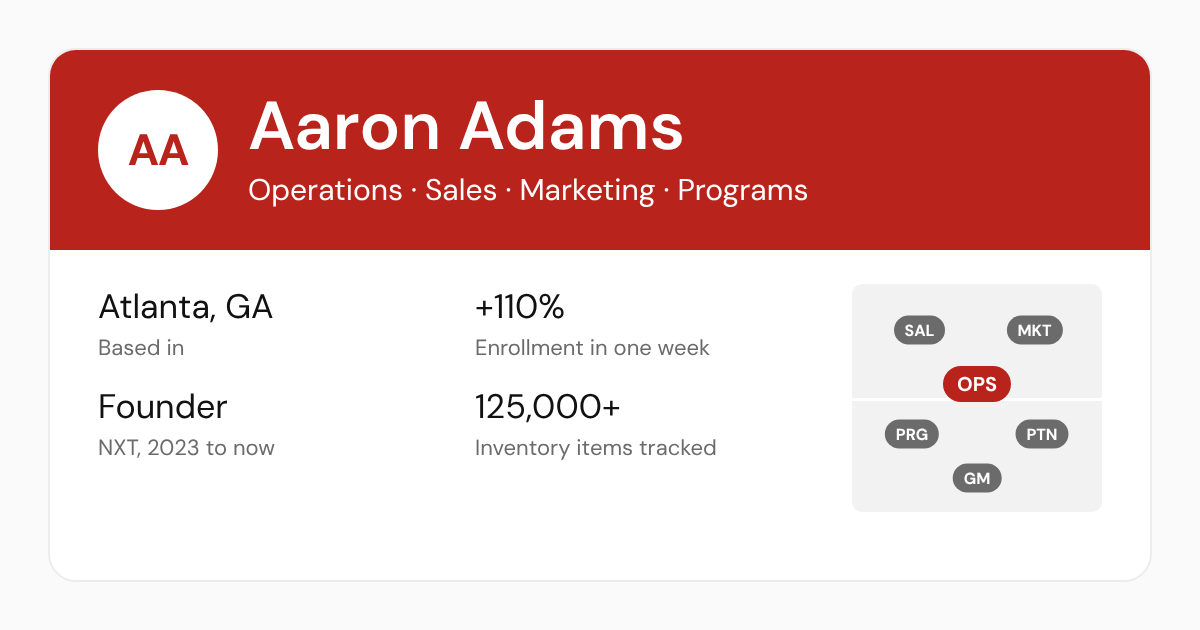
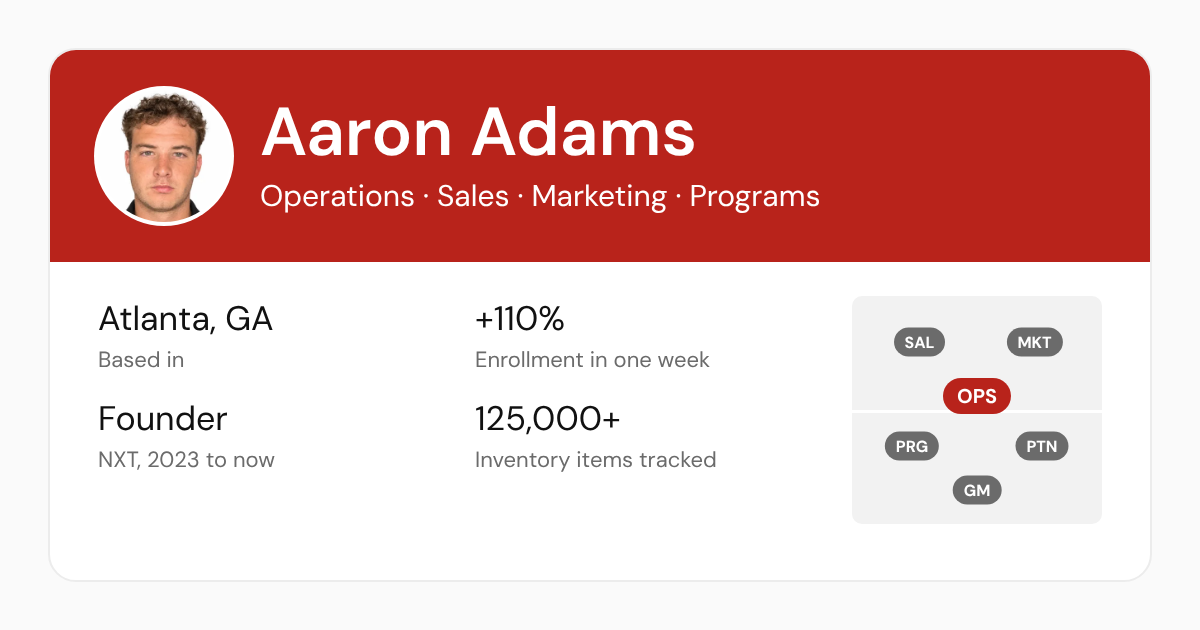
Add headshot to profile band, schema and share image
Claude-Session: https://claude.ai/code/session_01LnneWvtKW52P2VSg5JsRXs

diff --git a/src/data/aaron.ts b/src/data/aaron.ts
@@ -62,6 +62,8 @@ export const person = {
   url: 'https://hireaaronadams.com',
   linkedin: 'https://www.linkedin.com/in/aaron-adams96/',
   resumePdf: '/AaronAdamsResume2026.pdf',
+  photo: '/aaron-320.webp',
+  photoSmall: '/aaron-160.webp',
   positioning:
     'I build and run the operations that keep a business moving: process design, inventory and supply chain, hiring and staffing, fulfillment, and the systems that connect them.',
 };
